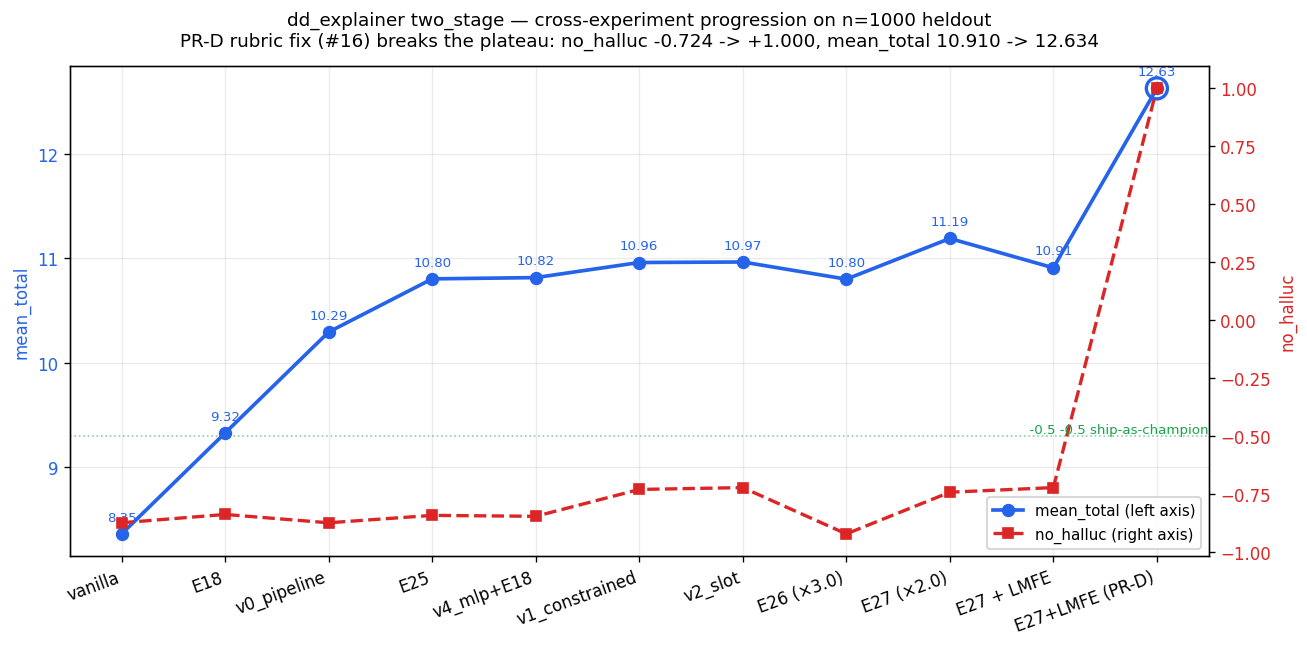
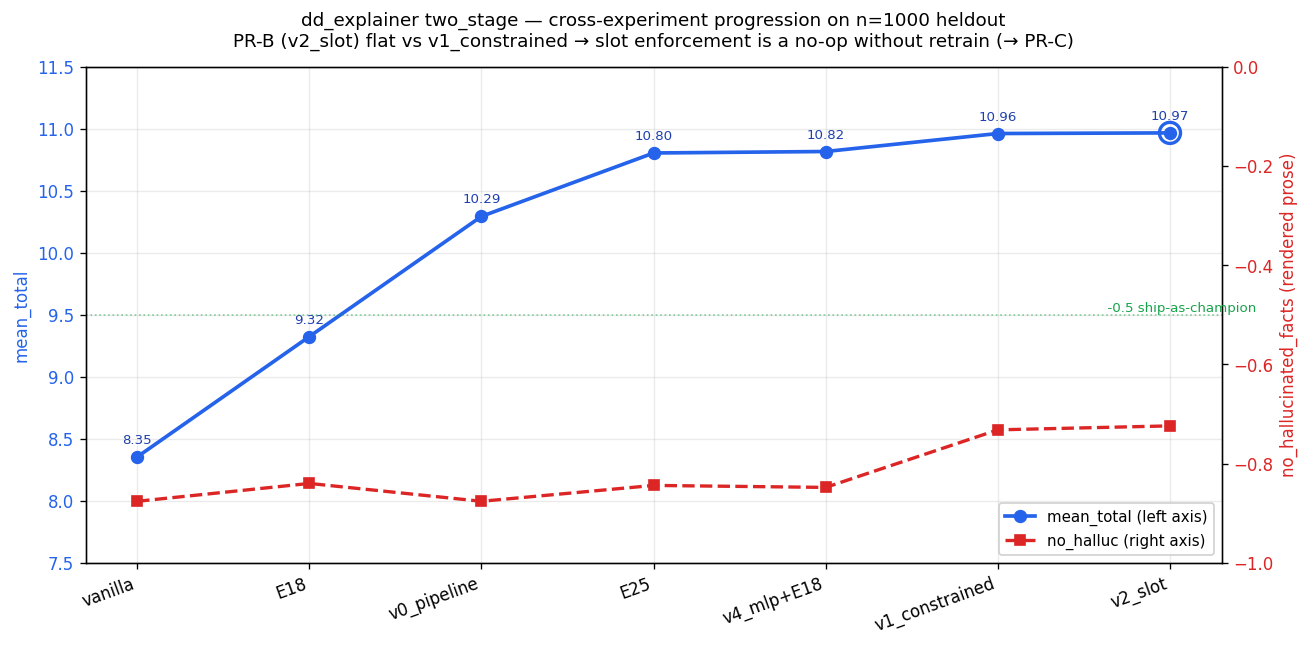
docs(slot-enforced): land PR-B verdict — flat vs v1_constrained, pivots to PR-C
n=1000 result on E18 + constrain-facts + enforce-slots:
  mean_total = 10.966   vs PR #12: +0.005 (flat)
  no_halluc  = -0.724   vs PR #12: +0.008 (flat)
  no_halluc(slots) = 0.186 (model picks null for ~80% of slots)

E18 was never trained to populate the new slot fields, so LMFE enforcement
is a no-op — the model emits null and the rubric falls back to the legacy
regex-on-prose path, identical to PR #12's constrained output.

Cross-experiment progression plot in experiments/progress/dd_explainer_two_stage/
shows the trajectory: vanilla 8.35 → E18 9.32 → v0_pipeline 10.29 → E25 10.80
→ v4_mlp 10.82 → v1_constrained 10.96 → v2_slot 10.97 (flat).

Next move: PR-C — Stage 2 GRPO retrain on the new schema with
reward_no_hallucinated_facts_slots in the reward bundle so the model
learns to populate slots reliably.

diff --git a/experiments/_dd_explainer_progression.py b/experiments/_dd_explainer_progression.py
@@ -1,0 +1,153 @@
+"""Cross-experiment progression plot for the dd_explainer task.
+
+Renders a single twin-axis chart showing mean_total (left) and
+no_hallucinated_facts (right) across every checkpoint that has been A/B'd
+on the n=1000 heldout split. Hand-authored data table — small enough that
+hand-maintaining is cleaner than parsing scattered eval JSONs.
+
+Usage:
+
+    uv run python experiments/_dd_explainer_progression.py
+    # writes experiments/progress/dd_explainer_two_stage/v2_progression.png
+"""
+
+from __future__ import annotations
+
+from dataclasses import dataclass
+from pathlib import Path
+
+import matplotlib.pyplot as plt
+
+
+@dataclass(frozen=True)
+class Milestone:
+    label: str  # short id for x-axis
+    full: str   # tooltip / annotation
+    mean_total: float
+    no_halluc: float
+    pass_all_pct: float
+
+
+# Hand-curated history. Sources cited inline.
+MILESTONES: list[Milestone] = [
+    Milestone(
+        label="vanilla",
+        full="Gemma 4 4B base, no fine-tune (vanilla baseline)",
+        mean_total=8.354,
+        no_halluc=-0.876,
+        pass_all_pct=11.9,
+    ),
+    Milestone(
+        label="E18",
+        full="v2 GRPO champion (single-stage, no two-stage architecture)",
+        mean_total=9.324,
+        no_halluc=-0.840,
+        pass_all_pct=18.5,
+    ),
+    Milestone(
+        label="v0_pipeline",
+        full="Two-stage v3 (bge-small + extra features) + E18 LoRA — first config to clear 10",
+        mean_total=10.293,
+        no_halluc=-0.876,
+        pass_all_pct=14.4,
+    ),
+    Milestone(
+        label="E25",
+        full="v3 + GRPO retrain on Stage-1-injected prompts (90 min sweep)",
+        mean_total=10.804,
+        no_halluc=-0.844,
+        pass_all_pct=12.9,
+    ),
+    Milestone(
+        label="v4_mlp+E18",
+        full="MLP head Stage 1 + E18 LoRA (no Stage 2 retrain) — ties E25 cheaper",
+        mean_total=10.816,
+        no_halluc=-0.848,
+        pass_all_pct=22.4,
+    ),
+    Milestone(
+        label="v1_constrained",
+        full="v4_mlp + E18 + prompt-time GROUNDING CONSTRAINT (PR #12)",
+        mean_total=10.961,
+        no_halluc=-0.732,
+        pass_all_pct=23.8,
+    ),
+    Milestone(
+        label="v2_slot",
+        full="v4_mlp + E18 + LMFE slot mask (PR-B, this PR) — flat vs PR #12",
+        mean_total=10.966,
+        no_halluc=-0.724,
+        pass_all_pct=23.2,
+    ),
+]
+
+
+def render(out: Path) -> None:
+    out.parent.mkdir(parents=True, exist_ok=True)
+
+    xs = list(range(len(MILESTONES)))
+    labels = [m.label for m in MILESTONES]
+    mean_totals = [m.mean_total for m in MILESTONES]
+    no_hallucs = [m.no_halluc for m in MILESTONES]
+
+    fig, ax_total = plt.subplots(figsize=(11, 5.5))
+    ax_halluc = ax_total.twinx()
+
+    line_total = ax_total.plot(
+        xs, mean_totals, "-o", color="#2563eb", linewidth=2.2, markersize=7,
+        label="mean_total (left axis)",
+    )[0]
+    line_halluc = ax_halluc.plot(
+        xs, no_hallucs, "--s", color="#dc2626", linewidth=2.0, markersize=6,
+        label="no_halluc (right axis)",
+    )[0]
+
+    # Horizontal reference lines — falsification thresholds + "ship as champion" line
+    ax_halluc.axhline(-0.5, color="#16a34a", linestyle=":", alpha=0.5, linewidth=1)
+    ax_halluc.text(
+        len(MILESTONES) - 0.5, -0.5, "  -0.5 ship-as-champion", color="#16a34a",
+        fontsize=8, va="bottom", ha="right",
+    )
+
+    # Annotate each point with mean_total value
+    for x, m in zip(xs, MILESTONES):
+        ax_total.annotate(
+            f"{m.mean_total:.2f}",
+            (x, m.mean_total),
+            textcoords="offset points", xytext=(0, 8),
+            ha="center", fontsize=8, color="#1e40af",
+        )
+
+    # Highlight the new PR-B point
+    ax_total.scatter([xs[-1]], [mean_totals[-1]], s=160, facecolors="none",
+                     edgecolors="#2563eb", linewidth=2, zorder=5)
+
+    ax_total.set_xticks(xs)
+    ax_total.set_xticklabels(labels, rotation=20, ha="right")
+    ax_total.set_ylabel("mean_total", color="#2563eb")
+    ax_halluc.set_ylabel("no_hallucinated_facts (rendered prose)", color="#dc2626")
+    ax_total.tick_params(axis="y", labelcolor="#2563eb")
+    ax_halluc.tick_params(axis="y", labelcolor="#dc2626")
+    ax_total.set_ylim(7.5, 11.5)
+    ax_halluc.set_ylim(-1.0, 0.0)
+    ax_total.grid(True, alpha=0.25)
+
+    ax_total.set_title(
+        "dd_explainer two_stage — cross-experiment progression on n=1000 heldout\n"
+        "PR-B (v2_slot) flat vs v1_constrained → slot enforcement is a no-op without retrain (→ PR-C)",
+        fontsize=11, pad=12,
+    )
+
+    # Combined legend
+    ax_total.legend(
+        handles=[line_total, line_halluc],
+        loc="lower right", framealpha=0.9, fontsize=9,
+    )
+
+    fig.tight_layout()
+    fig.savefig(out, dpi=120, bbox_inches="tight")
+    print(f"wrote {out}")
+
+
+if __name__ == "__main__":
+    render(Path("experiments/progress/dd_explainer_two_stage/v2_progression.png"))
